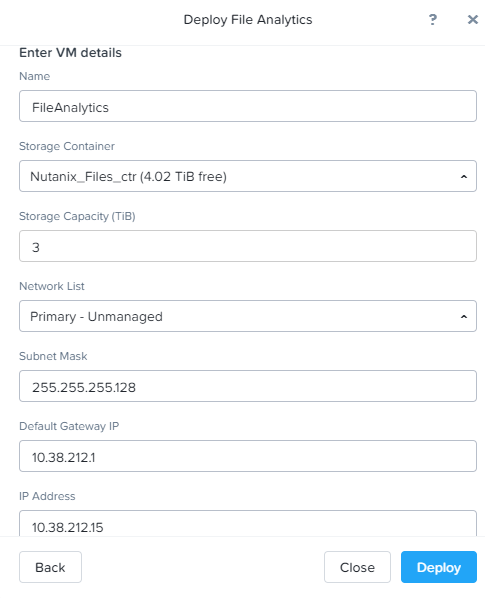
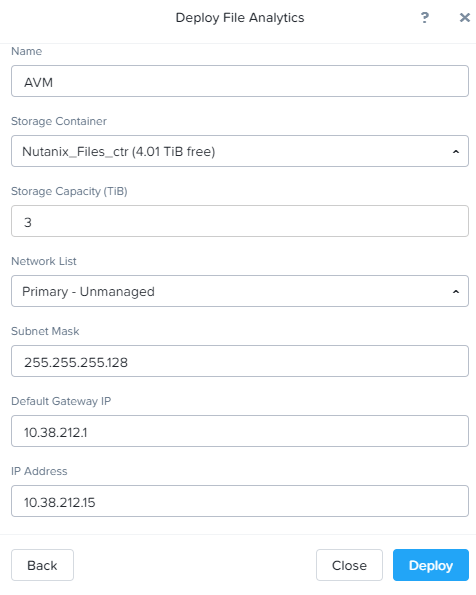
6-24-20 EOD
Files updates, added feedback section, advisory around diverting from instructions part of "before you begin"

diff --git a/files/files.rst b/files/files.rst
@@ -13,12 +13,27 @@ Review `NUTANIX FILES GUIDE <https://portal.nutanix.com/page/documents/details/?
 
    There are many options at various stages that are available to configure Files to suit the needs of our customers. This workshop will focus on the following configuration. Refer to the *NUTANIX FILES GUIDE* linked above for additional configuration options.
 
-      - One File Server    - basic configuration, 3 File Server VMs (FSVM)
-      - One file share     - SMB
-      - One hypervisor     - AHV
-      - AD authentication  - Microsoft Active Directory - via AutoAD VM
-      - One VLAN           - Unmanaged (i.e. IPAM is not configured)
+      - One File Server       - basic configuration, 3 File Server VMs (FSVM)
+      - Two SMB file shares   - smb01, smb02
+      - One NFS file shared   - nfs01
+      - One hypervisor        - AHV
+      - AD authentication     - Microsoft Active Directory - via AutoAD VM
+      - One VLAN              - Unmanaged (IPAM not configured)
       - Files Analytics
+
+Before you begin
+++++++++++++++++
+
+Please be aware that any information such as server names, IP addresses, and similar information contained within any screen shots are strictly for demonstration purposes. Do not use these values when proceeding with any of the steps contained within this workshop.
+
+This workshop was created with the following versions of Nutanix products. There may be differences - in both written steps and screen shots - between what is shown throughout this workshop, and what you experience if you are using later versions of the individual software packages listed below.
+
+   - AOS             - 5.17.0.4
+   - PC              - 5.17.0.3
+   - Files           - 3.6.4
+   - Files Analytics - 2.1.1.1
+
+Finally, while you are welcome to vary your inputs compared to the instructions listed below, please be aware that by diverting from these instructions, you may negatively impact your ability to successfully complete this workshop.
 
 Creating a File Server
 ++++++++++++++++++++++
@@ -47,9 +62,9 @@ Creating a File Server
 
    - Click the **Next** button.
 
-   .. note::
+      .. note::
 
-      When utilizing the HPOC, it is recommended to use .8 to .14 for the last octet for the 7 IP addresses required by the File Server VMs (FSVM) in the proceeding steps.
+         When utilizing the HPOC, it is recommended to use .8 to .14 for the last octet for the 7 IP addresses required by the File Server VMs (FSVM) in the proceeding steps.
 
 #. In the *Client Network* tab:
 
@@ -119,7 +134,7 @@ Creating a File Server
 
 Creating the file server begins. You can monitor progress through the **Tasks** page.
 
-.. warning::
+.. note::
 
    If you accidentally did not configure Files to use the AutoAD as the DNS server, after deploying the File Server you will get the following errors.
 
@@ -173,15 +188,22 @@ A *distributed* (home) share is the repository for the user's personal files, an
    - **NAME**: Enter the **smb01** as the name for the share.
    - **FILE SERVER**: From the drop-down list, select the file server to place the share.
 
+   .. figure:: images/10.png
+
 #. Click **Next**.
 
 #. Select **Blocked File Types** and enter **.mov**
 
+.. figure:: images/10a.png
+
+   Caption text
+
 #. Click **Next > Create**.
 
-   .. figure:: images/10.png
+#. To create a Distributed share, repeat the steps above, with two differences:
 
-#. To create a Distributed share, repeat the steps above, except this time on the *Settings* page, click the **Use "Distributed" share/export type instead of "Standard"** box.
+   - **NAME**: Enter the **smb02** as the name for the share.
+   - On the *Settings* page, click the **Use "Distributed" share/export type instead of "Standard"** box.
 
 Deploying Files Analytics
 +++++++++++++++++++++++++
@@ -205,8 +227,17 @@ Deploying Files Analytics
    - **Name**: Enter **AVM** for the File Analytics VM (AVM).
    - **Storage Container**: Select a storage container from the dropdown. The dropdown only displays file server storage containers.
    - **Network List**: Select VLAN.
+   - Enter network details in the **Subnet Mask**, **Default Gateway IP**, and **IP Address** fields as indicated.
+
+      .. note::
+
+         When utilizing the HPOC, it is recommended to use .15 for the last octet for the IP address.
 
       .. figure:: images/11.png
+
+   - Scroll down, and click the **Show Advanced Settings** box. Within the **DNS Resolver IP (Comma Separated)** field, enter the IP address of your AutoAD VM.
+
+      .. figure:: images/11a.png
 
 #. Click **Deploy**.
 
@@ -231,17 +262,17 @@ Enabling Files Analytics
 
 #. Click **Enable**.
 
-.. note::
+   .. note::
 
-   To update DNS server settings on File Analytics VM after deployment:
-    - Login into File Analytics VM CLI using
-      - User: nutanix
-      - Password: nutanix/4u
-    - Execute the following command. Click the icon in the upper right corner of the window below to copy the command to your clipboard, and then paste within your SSH session.
+      To update DNS server settings on File Analytics VM after deployment:
+       - Login into File Analytics VM CLI using
+         - User: nutanix
+         - Password: nutanix/4u
+       - Execute the following command. Click the icon in the upper right corner of the window below to copy the command to your clipboard, and then paste within your SSH session.
 
-      ::
+         ::
 
-         sudo bash /opt/nutanix/update_dns.sh
+            sudo bash /opt/nutanix/update_dns.sh
 
 
 Testing with client desktop
@@ -318,7 +349,7 @@ AutoAD is pre-populated with the following Users and Groups for your use:
 
      The *Initials*\ **-WinTools** VM has already been joined to the **ntnxlab.local** domain. You could use any domain joined VM to complete the following steps.
 
-#. Open ``\\*file server*.ntnxlab.local\`` in **File Explorer**.
+#. Open ``\\files.ntnxlab.local\`` in **File Explorer**.
 
 #. Open a browser within your *Initials*\ **-WinTools** desktop and download sample data to populate in your share: (HOW DO WE HANDLE THIS IF PHYSICAL POC? STORE IT OUTSIDE OF GITHUB, REDUCE FILE SIZE, BREAK IT INTO MULTIPLE ZIPS, OR...?)
 

diff --git a/feedback/feedback.rst b/feedback/feedback.rst
@@ -1,0 +1,25 @@
+.. _feedback:
+
+--------
+Feedback
+--------
+
+See something you loved? Hated? Perhaps something in between?
+
+**We need to know!**
+
+Have an idea for a workshop that doesn't exist, that you just *know* in your gut could help you, or the global team sell a particular product more effectively?
+
+**We need to know!**
+
+We want to hear **all** of your feedback - the good *and* the bad, so please don't be shy. If you hold onto that feedback, it hurts our ability to delivery quality content. Your input is an absolutely critical component to the design process for existing and future content. We need to constantly hear from you - our sellers - as to what is, and what isn't relevant.
+
+.. note::
+
+   E-mail      - Bootcamps@nutanix.com
+
+   Slack       - #technology-bootcamps
+
+   Reflektive  - ??
+
+   Other       - ??

diff --git a/index.rst b/index.rst
@@ -44,3 +44,13 @@
    :hidden:
 
    xray/xray
+
+.. PUT ANY CONTENT ABOVE THIS, KEEPING FEEDBACK ENTRY AT THE END
+
+.. toctree::
+   :maxdepth: 2
+   :caption: Feedback
+   :name: _feedback
+   :hidden:
+
+   feedback/feedback
